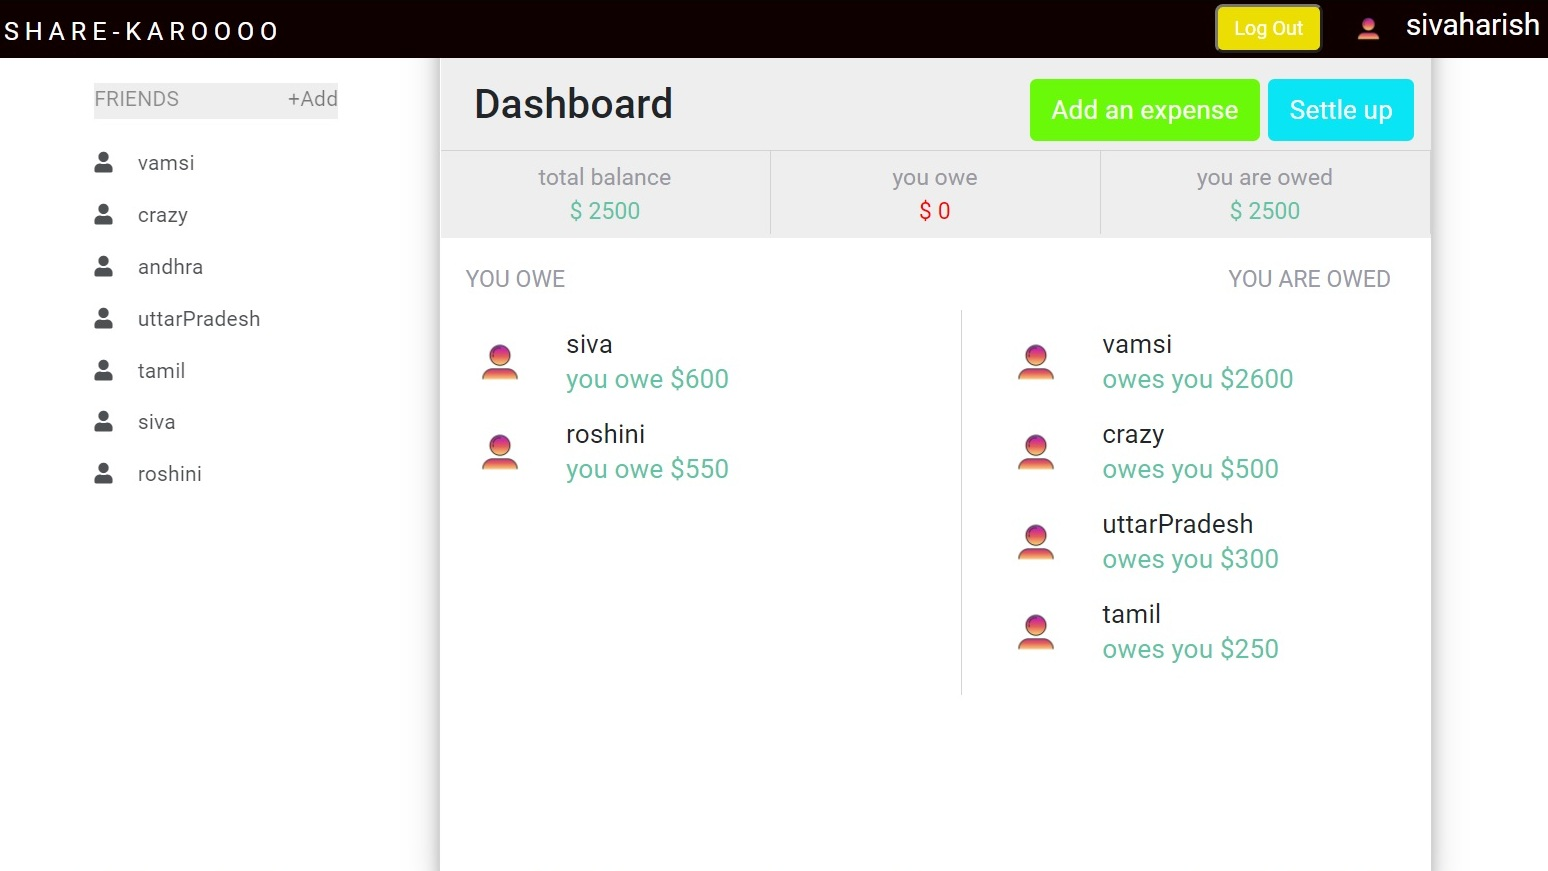
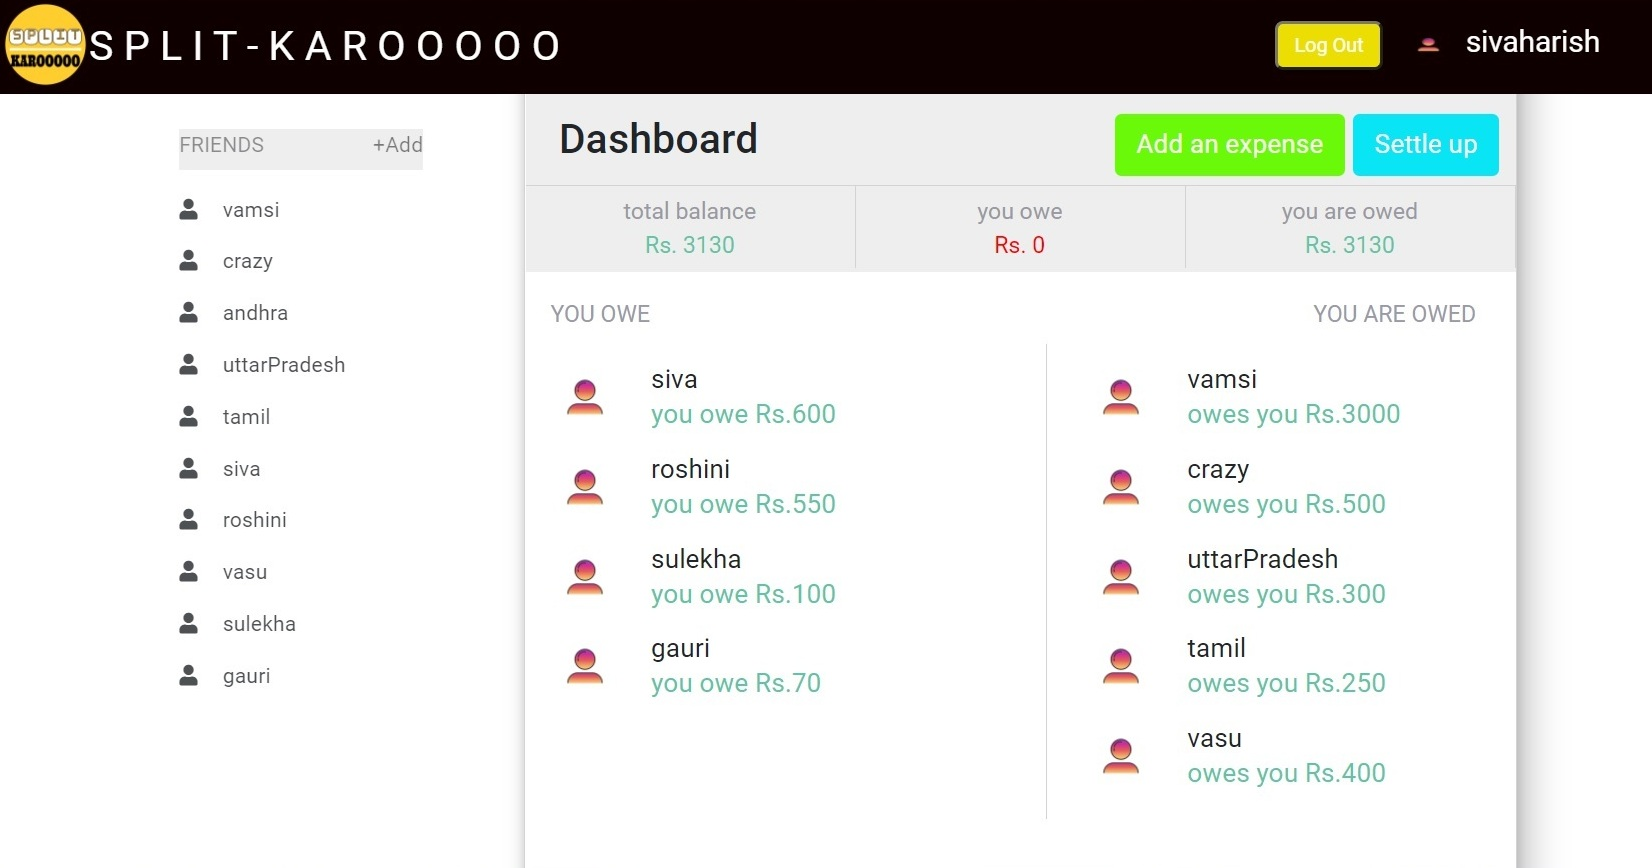
update ui

diff --git a/client/src/components/landing.js b/client/src/components/landing.js
@@ -10,21 +10,17 @@ export const Landing = ()=>{
             <main >
                 <div className = "landing-heading">
 
-                 <img align="middle" className = "landing-logo" src={require('../images/shareKaro.png')} alt=""/>   
+                    
                 <h1 className = "landing-header">Split expenses with friends.</h1>
-                <p className = "landing-desc"><strong>Share</strong> bills and  <strong>Make sure</strong> everyone gets paid back. <strong>Totally free</strong> for web</p>
+                <p className = "landing-desc"><strong>Share</strong> bills and  <strong>Make sure</strong> everyone gets paid back. </p>
                 <img className = "landing-big" src={require('../images/moneyShare.jpg')} alt=""/>   
                 </div>
                 
                 <div className = "landing-feature">
                  
                 <div className = "landing-content">
-                <h1  >Sharing expenses has </h1><h1>never been easier .</h1> 
-                <ul>
-                    <li><i class="fas fa-check-circle"></i> &nbsp;&nbsp;Share bills  </li>
-                    <li><i class="fas fa-check-circle"></i> &nbsp;&nbsp;Make sure everyone gets paid back</li>
-                    <li><i class="fas fa-check-circle"></i> &nbsp;&nbsp;Totally Free for web,iPhone,and Android.</li>
-                </ul>
+                <h1  >Sharing expenses has </h1><h1>never been easier !!!!!</h1> 
+                 
                  
 
                 <a href="http://localhost:3000/signup">   <button className = "landing-button">  Get Started</button></a>
@@ -39,3 +35,5 @@ export const Landing = ()=>{
 //<div>   
 //<img className = "landing-img" src={require('../images/splitwise.png')} alt=""/>   
 //</div>
+//goes in line 13
+//<img align="middle" className = "landing-logo" src={require('../images/shareKaro.png')} alt=""/> 

diff --git a/client/src/components/Dashboard/MiddleDashboard.js b/client/src/components/Dashboard/MiddleDashboard.js
@@ -50,15 +50,15 @@ if(element.data){
         <div className="total">
           <div className="fitting">
             <label htmlFor="">total balance</label>
-            <p className="green">$ {exp}</p>
+            <p className="green">Rs. {exp}</p>
           </div>
           <div className="fitting">
             <label htmlFor="">you owe</label>
-            <p style = {{color:"red"}}>$ {(exp<0)?exp:0}</p>
+            <p style = {{color:"red"}}>Rs. {(exp<0)?exp:0}</p>
           </div>
           <div className="fitting">
             <label htmlFor="">you are owed</label>
-            <p className="green">$ {(exp>0)?exp:0}</p>
+            <p className="green">Rs. {(exp>0)?exp:0}</p>
           </div>
         </div>
       </div>
@@ -85,7 +85,7 @@ if(element.data){
              />
              <div className="inline">
                <h5>{value.name}</h5>
-               <span>you owe ${-(value.data.ammount)}</span>
+               <span>you owe Rs.{-(value.data.ammount)}</span>
              </div>
            </li>
             )}
@@ -117,7 +117,7 @@ if(element.data){
             />
             <div className="inline">
               <h5>{value.name}</h5>
-              <span>owes you ${value.data.ammount}</span>
+              <span>owes you Rs.{value.data.ammount}</span>
             </div>
           </li>
             )}

diff --git a/client/src/components/Header.js b/client/src/components/Header.js
@@ -6,10 +6,14 @@ import '../styles/landing.css'
  const Header = (props)=>{
     {console.log(props.user)}
     return (
+        
         <nav className = "landingNav fixed-top">
-        <NavLink to = "/"><h3 className = "landing-name">S H A R E - K A R O O O O O</h3></NavLink> 
-     
-     <div className = "float">
+        <div className="logo">
+        <img align="left" className = "landing-logo" src={require('../images/black1.png')} alt=""/>
+        <NavLink to = "/"><h3 className = "landing-name">S P L I T - K A R O O O O O</h3></NavLink> 
+        <img align="left" className = "landing-logo" src={require('../images/shareKaro.png')} alt=""/>
+        </div>
+    <div className = "float">
      <NavLink to = "/login"><button className = "loginBtn">Log In</button></NavLink>
         <label htmlFor="">or</label>
         <NavLink to = "/signup"><button className = "SignUp">Sign Up</button></NavLink>

diff --git a/client/src/styles/Dashboard.css b/client/src/styles/Dashboard.css
@@ -31,20 +31,22 @@
 }
 /* ********************* */
 .Middle{
-    height: 100vh;
+    top: 100;
+    margin-bottom: 100vh;
+    height: 150vh;
     width: 602px;
     border: lightgray 1px solid;
-    box-shadow: 0 4px 8px 0 rgba(0, 0, 0, 0.2), 0 6px 20px 0 rgba(0, 0, 0, 0.19);
+    box-shadow: 0 10px 8px 0 rgba(0, 0, 0, 0.2), 10px 20px 20px 0 rgba(0, 0, 0, 0.19);
 }
 
 .flex{
     display: flex;
 }
 .content{
-    height: 22px;
+    height: 25px;
     width: 148px;
    
-    margin-top: 50px;
+    margin-top: 81px;
     margin-left: 45%;
     background: #EEEEEE;
 
@@ -57,7 +59,7 @@
     background: #EEEEEE;
     height: 113px;
     width: 100%;
-    margin-top: 5%;
+    margin-top: 9%;
 
 }
 .DashHeader{

diff --git a/client/src/components/DashHeader.js b/client/src/components/DashHeader.js
@@ -7,7 +7,9 @@ import '../styles/dashHeader.css'
     
     return (
         <nav className = "DashboardNav fixed-top">
-        <NavLink to = "/Dashboard"><h3 className = "landing-name">S H A R E - K A R O O O O</h3></NavLink> 
+        <img align="left" className = "landing-logo" src={require('../images/black1.png')} alt=""/>
+        <NavLink to = "/Dashboard"><h3 className = "landing-name">S P L I T - K A R O O O O O</h3></NavLink> 
+        <img align="center" className = "landing-logo" src={require('../images/shareKaro.png')} alt=""/>
      
      <div className = "Dashfloat">
      <NavLink to = "/login"><button className = "logoutbtn" onClick = {()=>{

diff --git a/client/src/styles/dashHeader.css b/client/src/styles/dashHeader.css
@@ -9,23 +9,24 @@
   }
 
   .DashboardNav{
-    height: 35px;
+    height: 60px;
     width: 100%;
     background:#0f0000;
     color: white;
   }
 
   .DashboardNav h3{
-    font-size: 15px;
+    font-size: 25px;
     font-weight: normal;
     position: absolute;
-    top: 10px;
+    top: 16px;
     left: 10vw;
     
   }
 
 .profile{
-  height: 25px;
+  
+  height: 15px;
   width: 25px;
   border-radius: 50%;
   margin-right: 10px;
@@ -33,7 +34,7 @@
   .Dashfloat{
     float: right;
     position: absolute;
-    top: 2px;
+    top: 15px;
     right: 10vw;
     
   }

diff --git a/client/src/styles/landing.css b/client/src/styles/landing.css
@@ -5,7 +5,7 @@
   font-family: 'Roboto', sans-serif;
 }
 .landingNav{
-  height: 55px;
+  height: 60px;
   width: 100%;
   background:#0f0000;
   color: white;
@@ -116,14 +116,17 @@
 }
  
 .landing-button{
+  
+  
   float: right;
   padding: 10px;
   color: white;
   background: #8bff06;
   border-radius: 5px;
-  margin-top: 15px;
+  margin-right: 130px;
+  margin-top: 25px;
   font-size: 20px;
-  cursor: pointer;
+  
 }
 .landing-button:focus{
    

diff --git a/client/src/components/login.js b/client/src/components/login.js
@@ -13,7 +13,7 @@ export const Login = (props)=>{
 
 
       <div className = "signup-form">
-        <h3>WELCOME TO SHARE-KAROOOOO</h3>
+        <h3>WELCOME TO SPLIT-KAROOOOO</h3>
         <label htmlFor="">Email address</label>
         <input id = "email" onChange = {props.input} className = "form-control" type="text"/>
 
